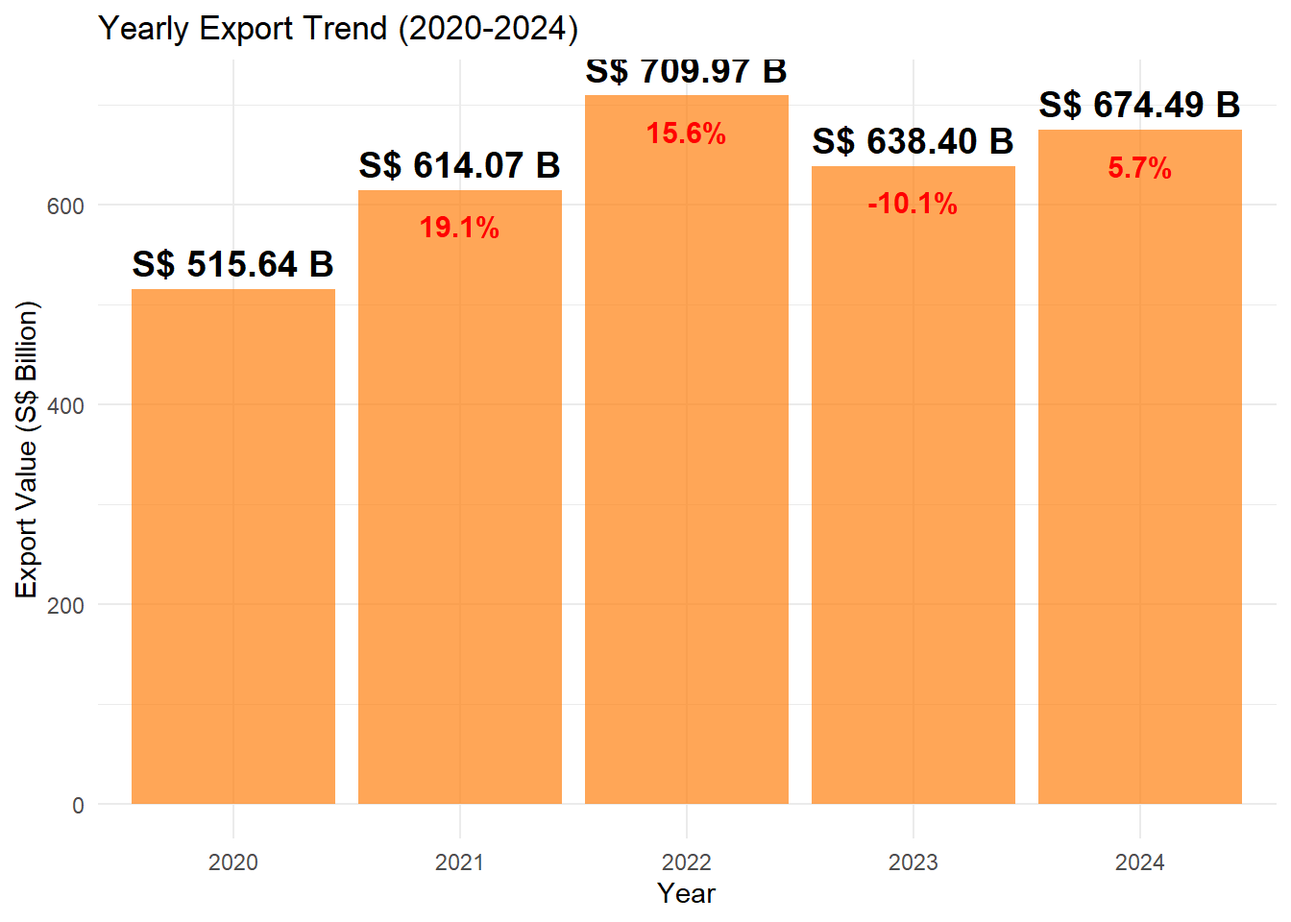
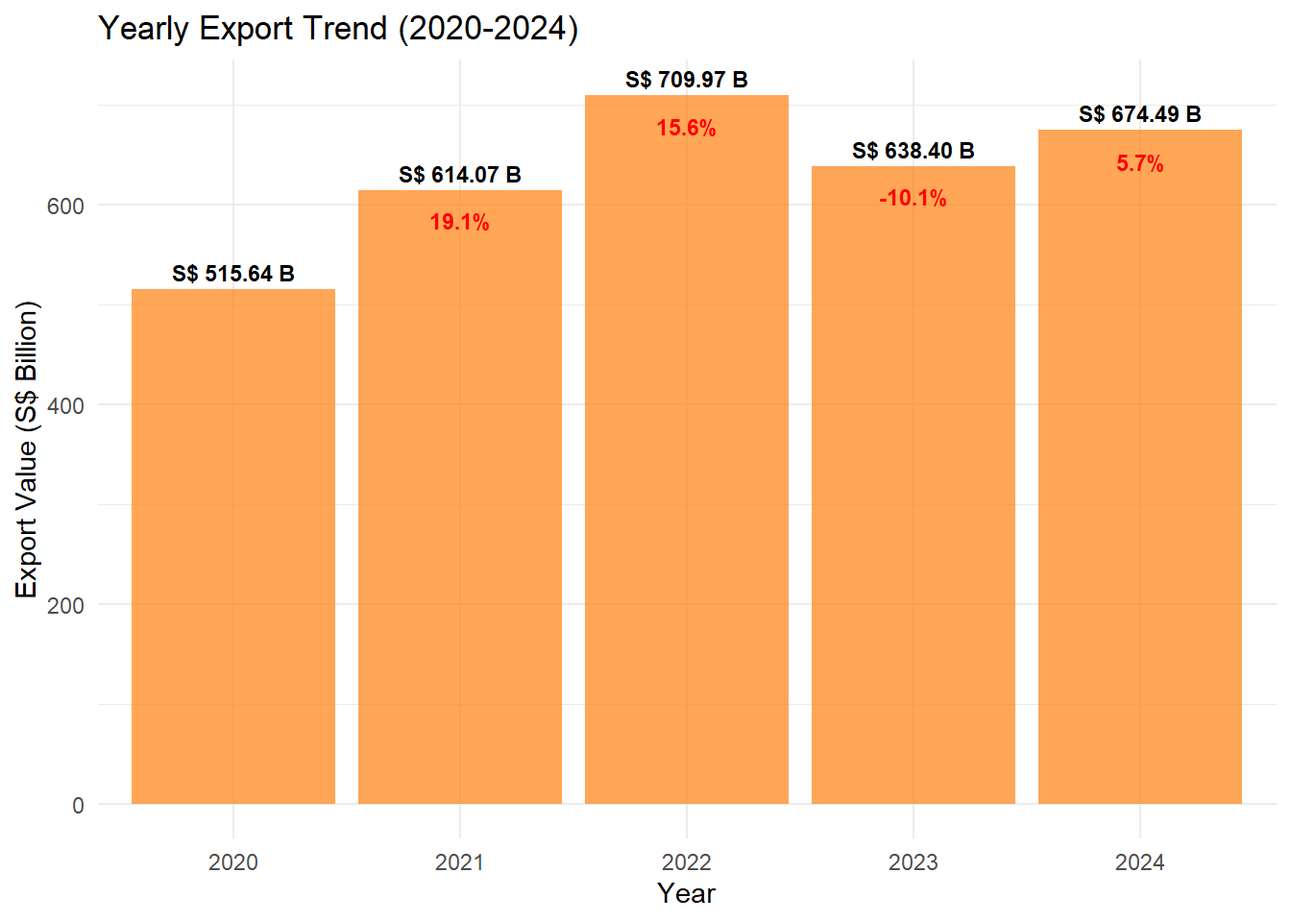
commit after take home exercise2

diff --git a/_site/Take-home_Ex/Take-home_Ex02/Take-home_Ex02.html b/_site/Take-home_Ex/Take-home_Ex02/Take-home_Ex02.html
@@ -318,7 +318,11 @@ pre > code.sourceCode > span > a:first-child::before { text-decoration: underlin
 </section>
 <section id="setting-the-scene" class="level2">
 <h2 class="anchored" data-anchor-id="setting-the-scene"><strong>2. Setting the scene</strong></h2>
-<p>Download Data,</p>
+<p>Singapore is a major global trade hub, and its trade patterns reflect economic trends, policy changes, and global events. Since 2015, factors like the U.S.-China trade war, COVID-19, and economic recovery have influenced trade fluctuations.This analysis aims to explore Singapore’s international trade trends using data visualization and time-series analysis.</p>
+<p>a. Critique Existing Visualizations – Identify strengths and weaknesses of current trade charts.</p>
+<p>b. Create Improved Visualizations – Use ggplot2 and R packages to enhance clarity. Perform</p>
+<p>c. Time-Series Analysis and Forecasting – Analyze trade trends and predict future movements.</p>
+<p>By combining visual and analytical approaches, we aim to uncover insights into Singapore’s trade patterns and anticipate future trends.</p>
 </section>
 <section id="our-task" class="level2">
 <h2 class="anchored" data-anchor-id="our-task">3. Our task</h2>
@@ -823,26 +827,26 @@ date (1): Date
 <span id="cb34-39"><a href="#cb34-39" aria-hidden="true" tabindex="-1"></a></span>
 <span id="cb34-40"><a href="#cb34-40" aria-hidden="true" tabindex="-1"></a>p1 <span class="ot">&lt;-</span> <span class="fu">ggplot</span>(df_total_trade, <span class="fu">aes</span>(<span class="at">x =</span> <span class="fu">factor</span>(Year), <span class="at">y =</span> Import)) <span class="sc">+</span></span>
 <span id="cb34-41"><a href="#cb34-41" aria-hidden="true" tabindex="-1"></a>  <span class="fu">geom_bar</span>(<span class="at">stat =</span> <span class="st">"identity"</span>, <span class="at">fill =</span> custom_colors[<span class="st">"Import"</span>], <span class="at">alpha =</span> <span class="fl">0.7</span>) <span class="sc">+</span></span>
-<span id="cb34-42"><a href="#cb34-42" aria-hidden="true" tabindex="-1"></a>  <span class="fu">geom_text</span>(<span class="fu">aes</span>(<span class="at">label =</span> <span class="fu">sprintf</span>(<span class="st">"S$ %.2f B"</span>, Import)), <span class="at">vjust =</span> <span class="sc">-</span><span class="fl">0.5</span>, <span class="at">size =</span> <span class="dv">5</span>, <span class="at">fontface =</span> <span class="st">"bold"</span>) <span class="sc">+</span>  </span>
+<span id="cb34-42"><a href="#cb34-42" aria-hidden="true" tabindex="-1"></a>  <span class="fu">geom_text</span>(<span class="fu">aes</span>(<span class="at">label =</span> <span class="fu">sprintf</span>(<span class="st">"S$ %.2f B"</span>, Import)), <span class="at">vjust =</span> <span class="sc">-</span><span class="fl">0.5</span>, <span class="at">size =</span> <span class="dv">3</span>, <span class="at">fontface =</span> <span class="st">"bold"</span>) <span class="sc">+</span>  </span>
 <span id="cb34-43"><a href="#cb34-43" aria-hidden="true" tabindex="-1"></a>  <span class="fu">geom_text</span>(<span class="fu">aes</span>(<span class="at">y =</span> Import <span class="sc">*</span> <span class="fl">0.98</span>, <span class="at">label =</span> <span class="fu">ifelse</span>(<span class="sc">!</span><span class="fu">is.na</span>(Import_Change), <span class="fu">paste0</span>(Import_Change, <span class="st">"%"</span>), <span class="st">""</span>)), </span>
-<span id="cb34-44"><a href="#cb34-44" aria-hidden="true" tabindex="-1"></a>            <span class="at">vjust =</span> <span class="fl">1.5</span>, <span class="at">size =</span> <span class="dv">4</span>, <span class="at">color =</span> <span class="st">"red"</span>, <span class="at">fontface =</span> <span class="st">"bold"</span>) <span class="sc">+</span></span>
+<span id="cb34-44"><a href="#cb34-44" aria-hidden="true" tabindex="-1"></a>            <span class="at">vjust =</span> <span class="fl">1.5</span>, <span class="at">size =</span> <span class="dv">3</span>, <span class="at">color =</span> <span class="st">"red"</span>, <span class="at">fontface =</span> <span class="st">"bold"</span>) <span class="sc">+</span></span>
 <span id="cb34-45"><a href="#cb34-45" aria-hidden="true" tabindex="-1"></a>  <span class="fu">labs</span>(<span class="at">title =</span> <span class="st">"Yearly Import Trend (2020-2024)"</span>, <span class="at">x =</span> <span class="st">"Year"</span>, <span class="at">y =</span> <span class="st">"Import Value (S$ Billion)"</span>) <span class="sc">+</span></span>
 <span id="cb34-46"><a href="#cb34-46" aria-hidden="true" tabindex="-1"></a>  <span class="fu">theme_minimal</span>()</span>
 <span id="cb34-47"><a href="#cb34-47" aria-hidden="true" tabindex="-1"></a></span>
 <span id="cb34-48"><a href="#cb34-48" aria-hidden="true" tabindex="-1"></a></span>
 <span id="cb34-49"><a href="#cb34-49" aria-hidden="true" tabindex="-1"></a>p2 <span class="ot">&lt;-</span> <span class="fu">ggplot</span>(df_total_trade, <span class="fu">aes</span>(<span class="at">x =</span> <span class="fu">factor</span>(Year), <span class="at">y =</span> Export)) <span class="sc">+</span></span>
 <span id="cb34-50"><a href="#cb34-50" aria-hidden="true" tabindex="-1"></a>  <span class="fu">geom_bar</span>(<span class="at">stat =</span> <span class="st">"identity"</span>, <span class="at">fill =</span> custom_colors[<span class="st">"Export"</span>], <span class="at">alpha =</span> <span class="fl">0.7</span>) <span class="sc">+</span></span>
-<span id="cb34-51"><a href="#cb34-51" aria-hidden="true" tabindex="-1"></a>  <span class="fu">geom_text</span>(<span class="fu">aes</span>(<span class="at">label =</span> <span class="fu">sprintf</span>(<span class="st">"S$ %.2f B"</span>, Export)), <span class="at">vjust =</span> <span class="sc">-</span><span class="fl">0.5</span>, <span class="at">size =</span> <span class="dv">5</span>, <span class="at">fontface =</span> <span class="st">"bold"</span>) <span class="sc">+</span>  </span>
+<span id="cb34-51"><a href="#cb34-51" aria-hidden="true" tabindex="-1"></a>  <span class="fu">geom_text</span>(<span class="fu">aes</span>(<span class="at">label =</span> <span class="fu">sprintf</span>(<span class="st">"S$ %.2f B"</span>, Export)), <span class="at">vjust =</span> <span class="sc">-</span><span class="fl">0.5</span>, <span class="at">size =</span> <span class="dv">3</span>, <span class="at">fontface =</span> <span class="st">"bold"</span>) <span class="sc">+</span>  </span>
 <span id="cb34-52"><a href="#cb34-52" aria-hidden="true" tabindex="-1"></a>  <span class="fu">geom_text</span>(<span class="fu">aes</span>(<span class="at">y =</span> Export <span class="sc">*</span> <span class="fl">0.98</span>, <span class="at">label =</span> <span class="fu">ifelse</span>(<span class="sc">!</span><span class="fu">is.na</span>(Export_Change), <span class="fu">paste0</span>(Export_Change, <span class="st">"%"</span>), <span class="st">""</span>)), </span>
-<span id="cb34-53"><a href="#cb34-53" aria-hidden="true" tabindex="-1"></a>            <span class="at">vjust =</span> <span class="fl">1.5</span>, <span class="at">size =</span> <span class="dv">4</span>, <span class="at">color =</span> <span class="st">"red"</span>, <span class="at">fontface =</span> <span class="st">"bold"</span>) <span class="sc">+</span></span>
+<span id="cb34-53"><a href="#cb34-53" aria-hidden="true" tabindex="-1"></a>            <span class="at">vjust =</span> <span class="fl">1.5</span>, <span class="at">size =</span> <span class="dv">3</span>, <span class="at">color =</span> <span class="st">"red"</span>, <span class="at">fontface =</span> <span class="st">"bold"</span>) <span class="sc">+</span></span>
 <span id="cb34-54"><a href="#cb34-54" aria-hidden="true" tabindex="-1"></a>  <span class="fu">labs</span>(<span class="at">title =</span> <span class="st">"Yearly Export Trend (2020-2024)"</span>, <span class="at">x =</span> <span class="st">"Year"</span>, <span class="at">y =</span> <span class="st">"Export Value (S$ Billion)"</span>) <span class="sc">+</span></span>
 <span id="cb34-55"><a href="#cb34-55" aria-hidden="true" tabindex="-1"></a>  <span class="fu">theme_minimal</span>()</span>
 <span id="cb34-56"><a href="#cb34-56" aria-hidden="true" tabindex="-1"></a></span>
 <span id="cb34-57"><a href="#cb34-57" aria-hidden="true" tabindex="-1"></a>p3 <span class="ot">&lt;-</span> <span class="fu">ggplot</span>(df_total_trade, <span class="fu">aes</span>(<span class="at">x =</span> <span class="fu">factor</span>(Year), <span class="at">y =</span> Total_Trade)) <span class="sc">+</span></span>
 <span id="cb34-58"><a href="#cb34-58" aria-hidden="true" tabindex="-1"></a>  <span class="fu">geom_bar</span>(<span class="at">stat =</span> <span class="st">"identity"</span>, <span class="at">fill =</span> custom_colors[<span class="st">"Total Trade"</span>], <span class="at">alpha =</span> <span class="fl">0.7</span>) <span class="sc">+</span></span>
-<span id="cb34-59"><a href="#cb34-59" aria-hidden="true" tabindex="-1"></a>  <span class="fu">geom_text</span>(<span class="fu">aes</span>(<span class="at">label =</span> <span class="fu">sprintf</span>(<span class="st">"S$ %.2f B"</span>, Total_Trade)), <span class="at">vjust =</span> <span class="sc">-</span><span class="fl">0.5</span>, <span class="at">size =</span> <span class="dv">5</span>, <span class="at">fontface =</span> <span class="st">"bold"</span>) <span class="sc">+</span>  </span>
+<span id="cb34-59"><a href="#cb34-59" aria-hidden="true" tabindex="-1"></a>  <span class="fu">geom_text</span>(<span class="fu">aes</span>(<span class="at">label =</span> <span class="fu">sprintf</span>(<span class="st">"S$ %.2f B"</span>, Total_Trade)), <span class="at">vjust =</span> <span class="sc">-</span><span class="fl">0.5</span>, <span class="at">size =</span> <span class="dv">3</span>, <span class="at">fontface =</span> <span class="st">"bold"</span>) <span class="sc">+</span>  </span>
 <span id="cb34-60"><a href="#cb34-60" aria-hidden="true" tabindex="-1"></a>  <span class="fu">geom_text</span>(<span class="fu">aes</span>(<span class="at">y =</span> Total_Trade <span class="sc">*</span> <span class="fl">0.98</span>, <span class="at">label =</span> <span class="fu">ifelse</span>(<span class="sc">!</span><span class="fu">is.na</span>(Total_Change), <span class="fu">paste0</span>(Total_Change, <span class="st">"%"</span>), <span class="st">""</span>)), </span>
-<span id="cb34-61"><a href="#cb34-61" aria-hidden="true" tabindex="-1"></a>            <span class="at">vjust =</span> <span class="fl">1.5</span>, <span class="at">size =</span> <span class="dv">4</span>, <span class="at">color =</span> <span class="st">"red"</span>, <span class="at">fontface =</span> <span class="st">"bold"</span>) <span class="sc">+</span></span>
+<span id="cb34-61"><a href="#cb34-61" aria-hidden="true" tabindex="-1"></a>            <span class="at">vjust =</span> <span class="fl">1.5</span>, <span class="at">size =</span> <span class="dv">3</span>, <span class="at">color =</span> <span class="st">"red"</span>, <span class="at">fontface =</span> <span class="st">"bold"</span>) <span class="sc">+</span></span>
 <span id="cb34-62"><a href="#cb34-62" aria-hidden="true" tabindex="-1"></a>  <span class="fu">labs</span>(<span class="at">title =</span> <span class="st">"Total Trade (Import + Export) Trend (2020-2024)"</span>, </span>
 <span id="cb34-63"><a href="#cb34-63" aria-hidden="true" tabindex="-1"></a>       <span class="at">x =</span> <span class="st">"Year"</span>, <span class="at">y =</span> <span class="st">"Total Trade Value (S$ Billion)"</span>) <span class="sc">+</span></span>
 <span id="cb34-64"><a href="#cb34-64" aria-hidden="true" tabindex="-1"></a>  <span class="fu">theme_minimal</span>()</span>
@@ -876,7 +880,7 @@ date (1): Date
 </section>
 <section id="time-series-analysis" class="level2">
 <h2 class="anchored" data-anchor-id="time-series-analysis">6. Time series analysis</h2>
-<p>We can deal with data set again first, we can observe data over 10 years.</p>
+<p>We can first work with the dataset again and observe the data over the past 10 years.</p>
 <p>Clean up the data and ensure its format is correct, especially the time column must be of Date type and aggregated by year/month.</p>
 <div class="cell">
 <div class="sourceCode cell-code" id="cb37"><pre class="sourceCode r code-with-copy"><code class="sourceCode r"><span id="cb37-1"><a href="#cb37-1" aria-hidden="true" tabindex="-1"></a><span class="fu">library</span>(tidyverse)</span>
@@ -904,6 +908,7 @@ date (1): Date
 </div>
 <section id="draw-cycle-plot" class="level4">
 <h4 class="anchored" data-anchor-id="draw-cycle-plot">Draw Cycle Plot</h4>
+<p>Suitable for analyzing seasonal patterns in time series data, helping to identify variations across different months. Merchandise trade data is often influenced by seasonal factors such as holidays and policy changes. The Cycle Plot allows us to observe monthly trade patterns across different years, helping to detect recurring trends.</p>
 <div class="cell">
 <div class="sourceCode cell-code" id="cb38"><pre class="sourceCode r code-with-copy"><code class="sourceCode r"><span id="cb38-1"><a href="#cb38-1" aria-hidden="true" tabindex="-1"></a><span class="fu">library</span>(ggplot2)</span>
 <span id="cb38-2"><a href="#cb38-2" aria-hidden="true" tabindex="-1"></a></span>
@@ -926,6 +931,20 @@ date (1): Date
 </div>
 </div>
 </div>
+<p>Observation:</p>
+<ol type="1">
+<li>The trade value has shown a general upward trend over the years, with 2022 and 2023 having notably high trade values compared to previous years.</li>
+<li>2020-2024 trade values are significantly higher than 2010-2019, indicating economic expansion.</li>
+<li>Trade values tend to drop in the first quarter (January - March), likely due to the Chinese New Year and seasonal slowdowns.</li>
+<li>There is a consistent increase mid-year (May - July) and another peak towards the year-end (October - December), possibly due to global supply chain demands, year-end trade, and holiday-related exports/imports.</li>
+<li>2022 and 2023 exhibit higher volatility in trade values compared to earlier years. This suggests that post-pandemic recovery and trade policy adjustments played a role in boosting trade volumes.</li>
+<li>The dip in early 2020 aligns with COVID-19-related trade disruptions, but subsequent years have shown strong rebounds.</li>
+<li>2022 and 2023 saw exceptionally high trade values in certain months, especially around mid-year and year-end.</li>
+</ol>
+</section>
+<section id="draw-slope-graph" class="level4">
+<h4 class="anchored" data-anchor-id="draw-slope-graph">Draw Slope Graph</h4>
+<p>Slope Graph is useful for comparing two points in time to show increases or decreases in values clearly. The Slope Graph effectively visualizes total trade volume changes between 2010 and 2024, providing a direct view of long-term growth.</p>
 <div class="cell">
 <div class="sourceCode cell-code" id="cb40"><pre class="sourceCode r code-with-copy"><code class="sourceCode r"><span id="cb40-1"><a href="#cb40-1" aria-hidden="true" tabindex="-1"></a>df_slope <span class="ot">&lt;-</span> df_total_trade <span class="sc">%&gt;%</span></span>
 <span id="cb40-2"><a href="#cb40-2" aria-hidden="true" tabindex="-1"></a>  <span class="fu">filter</span>(Year <span class="sc">%in%</span> <span class="fu">c</span>(<span class="dv">2010</span>, <span class="dv">2024</span>)) <span class="sc">%&gt;%</span></span>
@@ -936,7 +955,7 @@ date (1): Date
 <span id="cb40-7"><a href="#cb40-7" aria-hidden="true" tabindex="-1"></a><span class="fu">ggplot</span>(df_slope, <span class="fu">aes</span>(<span class="at">x =</span> <span class="fu">factor</span>(Year), <span class="at">y =</span> Total_Trade, <span class="at">group =</span> <span class="dv">1</span>)) <span class="sc">+</span></span>
 <span id="cb40-8"><a href="#cb40-8" aria-hidden="true" tabindex="-1"></a>  <span class="fu">geom_line</span>(<span class="fu">aes</span>(<span class="at">color =</span> <span class="st">"Total Trade"</span>), <span class="at">size =</span> <span class="dv">1</span>) <span class="sc">+</span>  </span>
 <span id="cb40-9"><a href="#cb40-9" aria-hidden="true" tabindex="-1"></a>  <span class="fu">geom_point</span>(<span class="at">size =</span> <span class="dv">3</span>, <span class="at">color =</span> <span class="st">"red"</span>) <span class="sc">+</span>  </span>
-<span id="cb40-10"><a href="#cb40-10" aria-hidden="true" tabindex="-1"></a>  <span class="fu">geom_text</span>(<span class="fu">aes</span>(<span class="at">label =</span> <span class="fu">round</span>(Total_Trade, <span class="dv">2</span>)), <span class="at">vjust =</span> <span class="sc">-</span><span class="fl">0.5</span>, <span class="at">size =</span> <span class="dv">4</span>, <span class="at">fontface =</span> <span class="st">"bold"</span>) <span class="sc">+</span>  </span>
+<span id="cb40-10"><a href="#cb40-10" aria-hidden="true" tabindex="-1"></a>  <span class="fu">geom_text</span>(<span class="fu">aes</span>(<span class="at">label =</span> <span class="fu">round</span>(Total_Trade <span class="sc">/</span> <span class="dv">1000</span>, <span class="dv">2</span>)), <span class="at">vjust =</span> <span class="sc">-</span><span class="fl">0.5</span>, <span class="at">size =</span> <span class="fl">2.5</span>, <span class="at">fontface =</span> <span class="st">"bold"</span>) <span class="sc">+</span>  </span>
 <span id="cb40-11"><a href="#cb40-11" aria-hidden="true" tabindex="-1"></a>  <span class="fu">labs</span>(<span class="at">title =</span> <span class="st">"Total Trade Change from 2010 to 2024"</span>,</span>
 <span id="cb40-12"><a href="#cb40-12" aria-hidden="true" tabindex="-1"></a>       <span class="at">x =</span> <span class="st">"Year"</span>, <span class="at">y =</span> <span class="st">"Trade Value (S$ Billion)"</span>,</span>
 <span id="cb40-13"><a href="#cb40-13" aria-hidden="true" tabindex="-1"></a>       <span class="at">color =</span> <span class="st">"Trade Type"</span>) <span class="sc">+</span></span>
@@ -950,15 +969,20 @@ date (1): Date
 </div>
 </div>
 </div>
-<p>Heatmap</p>
+<p>11</p>
 <div class="cell">
-<div class="sourceCode cell-code" id="cb41"><pre class="sourceCode r code-with-copy"><code class="sourceCode r"><span id="cb41-1"><a href="#cb41-1" aria-hidden="true" tabindex="-1"></a><span class="fu">ggplot</span>(df_total_trade, <span class="fu">aes</span>(<span class="at">x =</span> Month, <span class="at">y =</span> <span class="fu">factor</span>(Year), <span class="at">fill =</span> Total_Trade)) <span class="sc">+</span></span>
-<span id="cb41-2"><a href="#cb41-2" aria-hidden="true" tabindex="-1"></a>  <span class="fu">geom_tile</span>(<span class="at">color =</span> <span class="st">"white"</span>) <span class="sc">+</span></span>
-<span id="cb41-3"><a href="#cb41-3" aria-hidden="true" tabindex="-1"></a>  <span class="fu">scale_fill_viridis_c</span>(<span class="at">option =</span> <span class="st">"C"</span>, <span class="at">direction =</span> <span class="sc">-</span><span class="dv">1</span>) <span class="sc">+</span>  </span>
-<span id="cb41-4"><a href="#cb41-4" aria-hidden="true" tabindex="-1"></a>  <span class="fu">labs</span>(<span class="at">title =</span> <span class="st">"Trade Value Heatmap (2010-2024)"</span>,</span>
-<span id="cb41-5"><a href="#cb41-5" aria-hidden="true" tabindex="-1"></a>       <span class="at">x =</span> <span class="st">"Month"</span>, <span class="at">y =</span> <span class="st">"Year"</span>,</span>
-<span id="cb41-6"><a href="#cb41-6" aria-hidden="true" tabindex="-1"></a>       <span class="at">fill =</span> <span class="st">"Trade Value (S$ Billion)"</span>) <span class="sc">+</span></span>
-<span id="cb41-7"><a href="#cb41-7" aria-hidden="true" tabindex="-1"></a>  <span class="fu">theme_minimal</span>()</span></code><button title="Copy to Clipboard" class="code-copy-button"><i class="bi"></i></button></pre></div>
+<div class="sourceCode cell-code" id="cb41"><pre class="sourceCode r code-with-copy"><code class="sourceCode r"><span id="cb41-1"><a href="#cb41-1" aria-hidden="true" tabindex="-1"></a>df_slope <span class="ot">&lt;-</span> df_total_trade <span class="sc">%&gt;%</span></span>
+<span id="cb41-2"><a href="#cb41-2" aria-hidden="true" tabindex="-1"></a>  <span class="fu">group_by</span>(Year) <span class="sc">%&gt;%</span></span>
+<span id="cb41-3"><a href="#cb41-3" aria-hidden="true" tabindex="-1"></a>  <span class="fu">summarise</span>(<span class="at">Total_Trade =</span> <span class="fu">sum</span>(Total_Trade, <span class="at">na.rm =</span> <span class="cn">TRUE</span>))  </span>
+<span id="cb41-4"><a href="#cb41-4" aria-hidden="true" tabindex="-1"></a></span>
+<span id="cb41-5"><a href="#cb41-5" aria-hidden="true" tabindex="-1"></a></span>
+<span id="cb41-6"><a href="#cb41-6" aria-hidden="true" tabindex="-1"></a><span class="fu">ggplot</span>(df_slope, <span class="fu">aes</span>(<span class="at">x =</span> <span class="fu">factor</span>(Year), <span class="at">y =</span> Total_Trade, <span class="at">group =</span> <span class="dv">1</span>)) <span class="sc">+</span></span>
+<span id="cb41-7"><a href="#cb41-7" aria-hidden="true" tabindex="-1"></a>  <span class="fu">geom_line</span>(<span class="at">color =</span> <span class="st">"red"</span>, <span class="at">size =</span> <span class="dv">1</span>) <span class="sc">+</span>  </span>
+<span id="cb41-8"><a href="#cb41-8" aria-hidden="true" tabindex="-1"></a>  <span class="fu">geom_point</span>(<span class="at">size =</span> <span class="dv">3</span>, <span class="at">color =</span> <span class="st">"red"</span>) <span class="sc">+</span>  </span>
+<span id="cb41-9"><a href="#cb41-9" aria-hidden="true" tabindex="-1"></a>  <span class="fu">geom_text</span>(<span class="fu">aes</span>(<span class="at">label =</span> <span class="fu">round</span>(Total_Trade <span class="sc">/</span> <span class="dv">1000</span>, <span class="dv">2</span>)), <span class="at">vjust =</span> <span class="sc">-</span><span class="fl">0.5</span>, <span class="at">size =</span> <span class="dv">3</span>, <span class="at">fontface =</span> <span class="st">"bold"</span>) <span class="sc">+</span>  </span>
+<span id="cb41-10"><a href="#cb41-10" aria-hidden="true" tabindex="-1"></a>  <span class="fu">labs</span>(<span class="at">title =</span> <span class="st">"Total Trade Change from 2010 to 2024"</span>,</span>
+<span id="cb41-11"><a href="#cb41-11" aria-hidden="true" tabindex="-1"></a>       <span class="at">x =</span> <span class="st">"Year"</span>, <span class="at">y =</span> <span class="st">"Trade Value (S$ Billion)"</span>) <span class="sc">+</span></span>
+<span id="cb41-12"><a href="#cb41-12" aria-hidden="true" tabindex="-1"></a>  <span class="fu">theme_minimal</span>()</span></code><button title="Copy to Clipboard" class="code-copy-button"><i class="bi"></i></button></pre></div>
 <div class="cell-output-display">
 <div>
 <figure class="figure">
@@ -967,11 +991,49 @@ date (1): Date
 </div>
 </div>
 </div>
-<p>Forecast model</p>
+<p>Observation:</p>
+<ol type="1">
+<li>The total trade value has shown a significant increase from 907.04 billion S$ in 2010 to 1,285.86 billion S$ in 2024. This indicates a strong upward trend in trade over the years.</li>
+<li>The total trade value was relatively stable between 2010 and 2014, staying around 1,000 billion S$. A notable decline occurred between 2014 and 2016, reaching the lowest point in 2016 (870.22 billion S$). From 2017 onwards, trade value exhibited a sharp recovery, particularly in 2021 and 2022, where trade peaked at 1,365.4 billion S$.</li>
+<li>The spike in 2021 and 2022 aligns with the post-pandemic recovery, where global supply chains and trade rebounded.</li>
+<li>The slight dip in 2023 (1,205.72 billion S$) suggests potential economic uncertainties or adjustments after the strong post-pandemic growth.</li>
+<li>While the overall trend is upward, the trade values exhibit periodic declines and rebounds.</li>
+</ol>
+</section>
+<section id="draw-heatmap" class="level4">
+<h4 class="anchored" data-anchor-id="draw-heatmap">Draw Heatmap</h4>
+<p>Heatmap is suitable for displaying data distribution across different time periods, helping to identify trends, anomalies, and seasonal patterns. For my task, the Year-Month Heatmap enables a clear visualization of trade volume variations, revealing peak and low seasons over the years.</p>
 <div class="cell">
-<div class="sourceCode cell-code" id="cb42"><pre class="sourceCode r code-with-copy"><code class="sourceCode r"><span id="cb42-1"><a href="#cb42-1" aria-hidden="true" tabindex="-1"></a><span class="fu">library</span>(tidyverse)</span>
-<span id="cb42-2"><a href="#cb42-2" aria-hidden="true" tabindex="-1"></a><span class="fu">library</span>(lubridate)</span>
-<span id="cb42-3"><a href="#cb42-3" aria-hidden="true" tabindex="-1"></a><span class="fu">library</span>(tsibble)</span></code><button title="Copy to Clipboard" class="code-copy-button"><i class="bi"></i></button></pre></div>
+<div class="sourceCode cell-code" id="cb42"><pre class="sourceCode r code-with-copy"><code class="sourceCode r"><span id="cb42-1"><a href="#cb42-1" aria-hidden="true" tabindex="-1"></a><span class="fu">ggplot</span>(df_total_trade, <span class="fu">aes</span>(<span class="at">x =</span> Month, <span class="at">y =</span> <span class="fu">factor</span>(Year), <span class="at">fill =</span> Total_Trade)) <span class="sc">+</span></span>
+<span id="cb42-2"><a href="#cb42-2" aria-hidden="true" tabindex="-1"></a>  <span class="fu">geom_tile</span>(<span class="at">color =</span> <span class="st">"white"</span>) <span class="sc">+</span></span>
+<span id="cb42-3"><a href="#cb42-3" aria-hidden="true" tabindex="-1"></a>  <span class="fu">scale_fill_viridis_c</span>(<span class="at">option =</span> <span class="st">"C"</span>, <span class="at">direction =</span> <span class="sc">-</span><span class="dv">1</span>) <span class="sc">+</span>  </span>
+<span id="cb42-4"><a href="#cb42-4" aria-hidden="true" tabindex="-1"></a>  <span class="fu">labs</span>(<span class="at">title =</span> <span class="st">"Trade Value Heatmap (2010-2024)"</span>,</span>
+<span id="cb42-5"><a href="#cb42-5" aria-hidden="true" tabindex="-1"></a>       <span class="at">x =</span> <span class="st">"Month"</span>, <span class="at">y =</span> <span class="st">"Year"</span>,</span>
+<span id="cb42-6"><a href="#cb42-6" aria-hidden="true" tabindex="-1"></a>       <span class="at">fill =</span> <span class="st">"Trade Value (S$ Billion)"</span>) <span class="sc">+</span></span>
+<span id="cb42-7"><a href="#cb42-7" aria-hidden="true" tabindex="-1"></a>  <span class="fu">theme_minimal</span>()</span></code><button title="Copy to Clipboard" class="code-copy-button"><i class="bi"></i></button></pre></div>
+<div class="cell-output-display">
+<div>
+<figure class="figure">
+<p><img src="Take-home_Ex02_files/figure-html/unnamed-chunk-15-1.png" class="img-fluid figure-img" width="672"></p>
+</figure>
+</div>
+</div>
+</div>
+<p>Observation:</p>
+<ol type="1">
+<li>The heatmap clearly shows an increase in trade value over time. The earlier years (2010-2016) are predominantly yellow and orange, indicating lower trade values. In the later years (2020-2024), the colors shift to red and purple, representing higher trade values, confirming a long-term increasing trend.</li>
+<li>The trade value fluctuates across different months. Certain months, such as early months of 2020 and 2016, exhibit higher trade activity, as indicated by brighter yellow colors. Conversely, 2022 and 2024 show lower trade activity during certain months (dark blue colors), potentially due to economic disruptions or market slowdowns.</li>
+<li>A sharp increase is observed in 2021, which aligns with post-pandemic global economic recovery. In 2022, certain months show deep purple (high trade activity), while others dip, indicating potential global supply chain adjustments. The global economic downturn or policy shifts might have influenced fluctuations in trade in the later years.</li>
+<li>Some years display more balanced trade across months, while others have strong peaks and troughs. Trade tends to rise towards mid-year in several years, suggesting cyclical economic patterns. The year-end months (November-December) are generally stable, likely due to established supply chain and trade cycles.</li>
+</ol>
+</section>
+<section id="forecast-model" class="level4">
+<h4 class="anchored" data-anchor-id="forecast-model">Forecast model</h4>
+<p>Time Series Forecasting is suitable for predicting future trends based on historical data, aiding decision-making processes. For my task: Using ARIMA to forecast trade data for 2025, we can estimate future trends and potential fluctuations in trade volume.</p>
+<div class="cell">
+<div class="sourceCode cell-code" id="cb43"><pre class="sourceCode r code-with-copy"><code class="sourceCode r"><span id="cb43-1"><a href="#cb43-1" aria-hidden="true" tabindex="-1"></a><span class="fu">library</span>(tidyverse)</span>
+<span id="cb43-2"><a href="#cb43-2" aria-hidden="true" tabindex="-1"></a><span class="fu">library</span>(lubridate)</span>
+<span id="cb43-3"><a href="#cb43-3" aria-hidden="true" tabindex="-1"></a><span class="fu">library</span>(tsibble)</span></code><button title="Copy to Clipboard" class="code-copy-button"><i class="bi"></i></button></pre></div>
 <div class="cell-output cell-output-stderr">
 <pre><code>Registered S3 methods overwritten by 'tsibble':
   method               from 
@@ -997,36 +1059,53 @@ Attaching package: 'tsibble'</code></pre>
 
     intersect, setdiff, union</code></pre>
 </div>
-<div class="sourceCode cell-code" id="cb48"><pre class="sourceCode r code-with-copy"><code class="sourceCode r"><span id="cb48-1"><a href="#cb48-1" aria-hidden="true" tabindex="-1"></a><span class="fu">library</span>(fable)</span></code><button title="Copy to Clipboard" class="code-copy-button"><i class="bi"></i></button></pre></div>
+<div class="sourceCode cell-code" id="cb49"><pre class="sourceCode r code-with-copy"><code class="sourceCode r"><span id="cb49-1"><a href="#cb49-1" aria-hidden="true" tabindex="-1"></a><span class="fu">library</span>(fable)</span></code><button title="Copy to Clipboard" class="code-copy-button"><i class="bi"></i></button></pre></div>
 <div class="cell-output cell-output-stderr">
 <pre><code>Loading required package: fabletools</code></pre>
 </div>
-<div class="sourceCode cell-code" id="cb50"><pre class="sourceCode r code-with-copy"><code class="sourceCode r"><span id="cb50-1"><a href="#cb50-1" aria-hidden="true" tabindex="-1"></a>df_total_trade <span class="ot">&lt;-</span> df_total_trade <span class="sc">%&gt;%</span></span>
-<span id="cb50-2"><a href="#cb50-2" aria-hidden="true" tabindex="-1"></a>  <span class="fu">mutate</span>(<span class="at">Date =</span> <span class="fu">yearmonth</span>(Date)) <span class="sc">%&gt;%</span>  </span>
-<span id="cb50-3"><a href="#cb50-3" aria-hidden="true" tabindex="-1"></a>  <span class="fu">as_tsibble</span>(<span class="at">index =</span> Date) <span class="sc">%&gt;%</span>  </span>
-<span id="cb50-4"><a href="#cb50-4" aria-hidden="true" tabindex="-1"></a>  <span class="fu">fill_gaps</span>() <span class="sc">%&gt;%</span>  </span>
-<span id="cb50-5"><a href="#cb50-5" aria-hidden="true" tabindex="-1"></a>  <span class="fu">mutate</span>(<span class="at">Total_Trade =</span> <span class="fu">ifelse</span>(<span class="fu">is.na</span>(Total_Trade), <span class="fu">mean</span>(Total_Trade, <span class="at">na.rm =</span> <span class="cn">TRUE</span>), Total_Trade))  </span>
-<span id="cb50-6"><a href="#cb50-6" aria-hidden="true" tabindex="-1"></a></span>
-<span id="cb50-7"><a href="#cb50-7" aria-hidden="true" tabindex="-1"></a></span>
-<span id="cb50-8"><a href="#cb50-8" aria-hidden="true" tabindex="-1"></a>forecast_model <span class="ot">&lt;-</span> df_total_trade <span class="sc">%&gt;%</span></span>
-<span id="cb50-9"><a href="#cb50-9" aria-hidden="true" tabindex="-1"></a>  <span class="fu">model</span>(<span class="fu">ARIMA</span>(Total_Trade))</span>
-<span id="cb50-10"><a href="#cb50-10" aria-hidden="true" tabindex="-1"></a></span>
-<span id="cb50-11"><a href="#cb50-11" aria-hidden="true" tabindex="-1"></a></span>
-<span id="cb50-12"><a href="#cb50-12" aria-hidden="true" tabindex="-1"></a>forecast_result <span class="ot">&lt;-</span> forecast_model <span class="sc">%&gt;%</span></span>
-<span id="cb50-13"><a href="#cb50-13" aria-hidden="true" tabindex="-1"></a>  <span class="fu">forecast</span>(<span class="at">h =</span> <span class="st">"6 months"</span>)</span>
-<span id="cb50-14"><a href="#cb50-14" aria-hidden="true" tabindex="-1"></a></span>
-<span id="cb50-15"><a href="#cb50-15" aria-hidden="true" tabindex="-1"></a></span>
-<span id="cb50-16"><a href="#cb50-16" aria-hidden="true" tabindex="-1"></a><span class="fu">autoplot</span>(forecast_result) <span class="sc">+</span></span>
-<span id="cb50-17"><a href="#cb50-17" aria-hidden="true" tabindex="-1"></a>  <span class="fu">labs</span>(<span class="at">title =</span> <span class="st">"Forecast for Total Trade"</span>)</span></code><button title="Copy to Clipboard" class="code-copy-button"><i class="bi"></i></button></pre></div>
+<div class="sourceCode cell-code" id="cb51"><pre class="sourceCode r code-with-copy"><code class="sourceCode r"><span id="cb51-1"><a href="#cb51-1" aria-hidden="true" tabindex="-1"></a>df_total_trade <span class="ot">&lt;-</span> df_total_trade <span class="sc">%&gt;%</span></span>
+<span id="cb51-2"><a href="#cb51-2" aria-hidden="true" tabindex="-1"></a>  <span class="fu">mutate</span>(<span class="at">Date =</span> <span class="fu">yearmonth</span>(Date)) <span class="sc">%&gt;%</span>  </span>
+<span id="cb51-3"><a href="#cb51-3" aria-hidden="true" tabindex="-1"></a>  <span class="fu">as_tsibble</span>(<span class="at">index =</span> Date) <span class="sc">%&gt;%</span>  </span>
+<span id="cb51-4"><a href="#cb51-4" aria-hidden="true" tabindex="-1"></a>  <span class="fu">fill_gaps</span>() <span class="sc">%&gt;%</span>  </span>
+<span id="cb51-5"><a href="#cb51-5" aria-hidden="true" tabindex="-1"></a>  <span class="fu">mutate</span>(<span class="at">Total_Trade =</span> <span class="fu">ifelse</span>(<span class="fu">is.na</span>(Total_Trade), <span class="fu">mean</span>(Total_Trade, <span class="at">na.rm =</span> <span class="cn">TRUE</span>), Total_Trade))  </span>
+<span id="cb51-6"><a href="#cb51-6" aria-hidden="true" tabindex="-1"></a></span>
+<span id="cb51-7"><a href="#cb51-7" aria-hidden="true" tabindex="-1"></a></span>
+<span id="cb51-8"><a href="#cb51-8" aria-hidden="true" tabindex="-1"></a>forecast_model <span class="ot">&lt;-</span> df_total_trade <span class="sc">%&gt;%</span></span>
+<span id="cb51-9"><a href="#cb51-9" aria-hidden="true" tabindex="-1"></a>  <span class="fu">model</span>(<span class="fu">ARIMA</span>(Total_Trade))</span>
+<span id="cb51-10"><a href="#cb51-10" aria-hidden="true" tabindex="-1"></a></span>
+<span id="cb51-11"><a href="#cb51-11" aria-hidden="true" tabindex="-1"></a></span>
+<span id="cb51-12"><a href="#cb51-12" aria-hidden="true" tabindex="-1"></a>forecast_result <span class="ot">&lt;-</span> forecast_model <span class="sc">%&gt;%</span></span>
+<span id="cb51-13"><a href="#cb51-13" aria-hidden="true" tabindex="-1"></a>  <span class="fu">forecast</span>(<span class="at">h =</span> <span class="st">"6 months"</span>)</span>
+<span id="cb51-14"><a href="#cb51-14" aria-hidden="true" tabindex="-1"></a></span>
+<span id="cb51-15"><a href="#cb51-15" aria-hidden="true" tabindex="-1"></a></span>
+<span id="cb51-16"><a href="#cb51-16" aria-hidden="true" tabindex="-1"></a><span class="fu">autoplot</span>(forecast_result) <span class="sc">+</span></span>
+<span id="cb51-17"><a href="#cb51-17" aria-hidden="true" tabindex="-1"></a>  <span class="fu">labs</span>(<span class="at">title =</span> <span class="st">"Forecast for Total Trade"</span>)</span></code><button title="Copy to Clipboard" class="code-copy-button"><i class="bi"></i></button></pre></div>
 <div class="cell-output-display">
 <div>
 <figure class="figure">
-<p><img src="Take-home_Ex02_files/figure-html/unnamed-chunk-15-1.png" class="img-fluid figure-img" width="672"></p>
+<p><img src="Take-home_Ex02_files/figure-html/unnamed-chunk-16-1.png" class="img-fluid figure-img" width="672"></p>
 </figure>
 </div>
 </div>
 </div>
 <p>Observation:</p>
+<ol type="1">
+<li>The forecast predicts a gradual increase in total trade from January 2025 to May 2025, peaking around April-May. However, there is a slight decline towards June 2025, indicating potential seasonal trade adjustments.</li>
+<li>Confidence Intervals: The darker blue region (80% confidence interval) represents a more probable forecast range. The lighter blue region (95% confidence interval) indicates wider uncertainty in predictions, showing possible fluctuations. The confidence intervals widen towards the future, which is expected as uncertainty increases over time.</li>
+</ol>
+</section>
+<section id="conclusion" class="level4">
+<h4 class="anchored" data-anchor-id="conclusion">Conclusion:</h4>
+<ol type="1">
+<li>Cycle Plot: Reveals monthly trade patterns and seasonal fluctuations, clearly identifying peak and low trade seasons over the years. This helps in understanding recurring trends and planning for seasonal demand variations.</li>
+<li>Slope Graph:Illustrates the significant increase in trade volume from 2010 to 2024, highlighting the long-term upward trend in total trade. It effectively emphasizes the steady expansion of trade activity over the past decade.</li>
+<li>Heatmap: Provides a detailed view of trade distribution across years and months, making it easier to spot anomalies, cyclical trends, and long-term growth patterns. This visualization helps in identifying seasonal trade fluctuations and market shifts.</li>
+<li>Time Series Forecasting: Projects trade volume trends for 2025, indicating potential growth with some uncertainty. The confidence intervals highlight the expected range of trade values, offering insights into possible market fluctuations and risks.</li>
+</ol>
+</section>
+<section id="reference" class="level4">
+<h4 class="anchored" data-anchor-id="reference">Reference</h4>
+<p><a href="https://r4va.netlify.app/chap17">Visualising and Analysing Time-series Data</a></p>
 
 
 </section>
